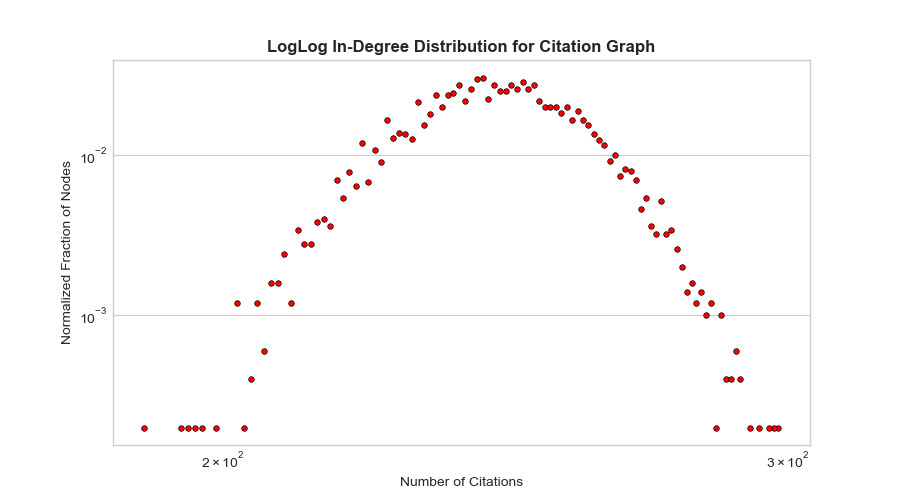
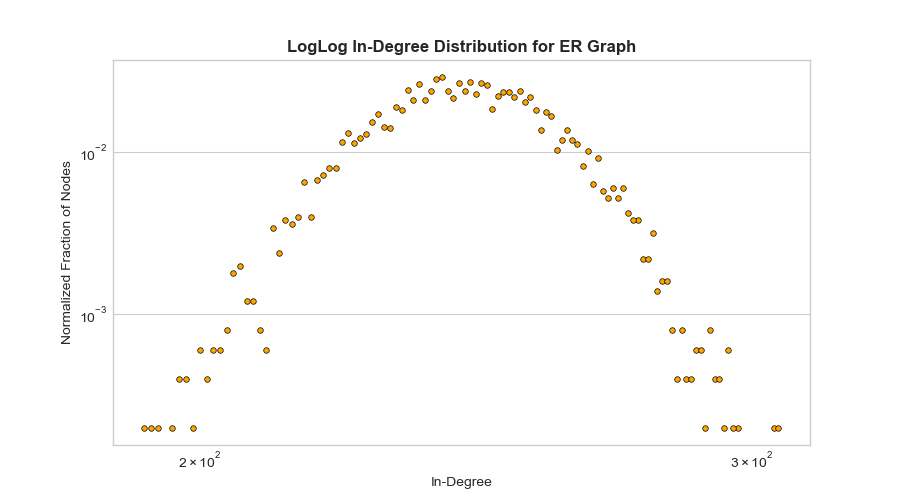
Complete DPA graph and plot of in-degree distribution

diff --git a/DPA_graph.py b/DPA_graph.py
@@ -11,30 +11,20 @@ Create the DPA graph, calculate the in-degrees for each node and the x and y val
 import In_degrees as ind
 import alg_dpa_trial as alg
 
-def dpa(num_nodes, num_edges):
+
+def dpa(num_nodes, num_new_nodes):
     """
     Create graph where every new node added randomly connects to a set number of existing nodes.
     """
-    """
-    g = {}
-    nodes = [num for num in range(num_nodes)]
-    num_edges = prob *  num_nodes
-    
-    for num in range(num_nodes):
-        #random.shuffle(nodes)
-        edges = 0
-        edge_list = []
-        while edges < num_edges:
-            edge = random.choice(nodes)
-            if edge != num:
-                edge_list.append(edge)
-            edges += 1
-        g[num] = set(edge_list)
-        
-    return g
-    """
-    
-dpa_graph = dpa(27770, 12)
+    dpa_graph = ind.make_complete_graph(num_new_nodes)
+    graph = alg.DPATrial(num_new_nodes)
+    for num in range(num_new_nodes, num_nodes):
+        new_node_neighbors = graph.run_trial(num_new_nodes)
+        dpa_graph[num] = new_node_neighbors
+    return dpa_graph
+
+ 
+dpa_graph = dpa(27770, 13)
 dpa_in_degrees = ind.in_degree_distribution(dpa_graph)
 
 def normalize_in_degrees(num_nodes, dict):

diff --git a/DPA_plot.py b/DPA_plot.py
@@ -9,20 +9,20 @@ Code for loading the loglog citation graph.
 """
 import matplotlib.pyplot as plt
 
-from ER_Graph import x
-from ER_Graph import y
+from DPA_graph import x
+from DPA_graph import y
 
 plt.style.use('seaborn-whitegrid')
 fig = plt.figure(figsize = (9, 5))
 ax1 = fig.add_subplot(1, 1, 1)
 
-ax1.loglog(x, y, ls='None', marker='.', ms = 8, mec='black', mew=.5, c='orange')
+ax1.loglog(x, y, ls='None', marker='.', ms = 6, mec='black', mew=.5, c='red')
 
-ax1.set_title('LogLog In-Degree Distribution for ER Graph', weight=600)
+ax1.set_title('LogLog In-Degree Distribution for DPA Graph', weight=600)
 ax1.set_xlabel('In-Degree')
 ax1.set_ylabel('Normalized Fraction of Nodes')
 
-plt.savefig('Images/In-Degree Distribution ER Graph', orientation='landscape')
+plt.savefig('Images/DPA Graph', orientation='landscape')
 plt.show()
 
 

diff --git a/alg_dpa_trial.py b/alg_dpa_trial.py
@@ -32,7 +32,7 @@ class DPATrial:
         """
         self._num_nodes = num_nodes
         self._node_numbers = [node for node in range(num_nodes) for dummy_idx in range(num_nodes)]
-
+        
 
     def run_trial(self, num_nodes):
         """
@@ -54,7 +54,9 @@ class DPATrial:
         # update the list of node numbers so that each node number 
         # appears in the correct ratio
         self._node_numbers.append(self._num_nodes)
+        #extend adds to end of a list
         self._node_numbers.extend(list(new_node_neighbors))
+        #print(self._node_numbers)
         
         #update the number of nodes
         self._num_nodes += 1
